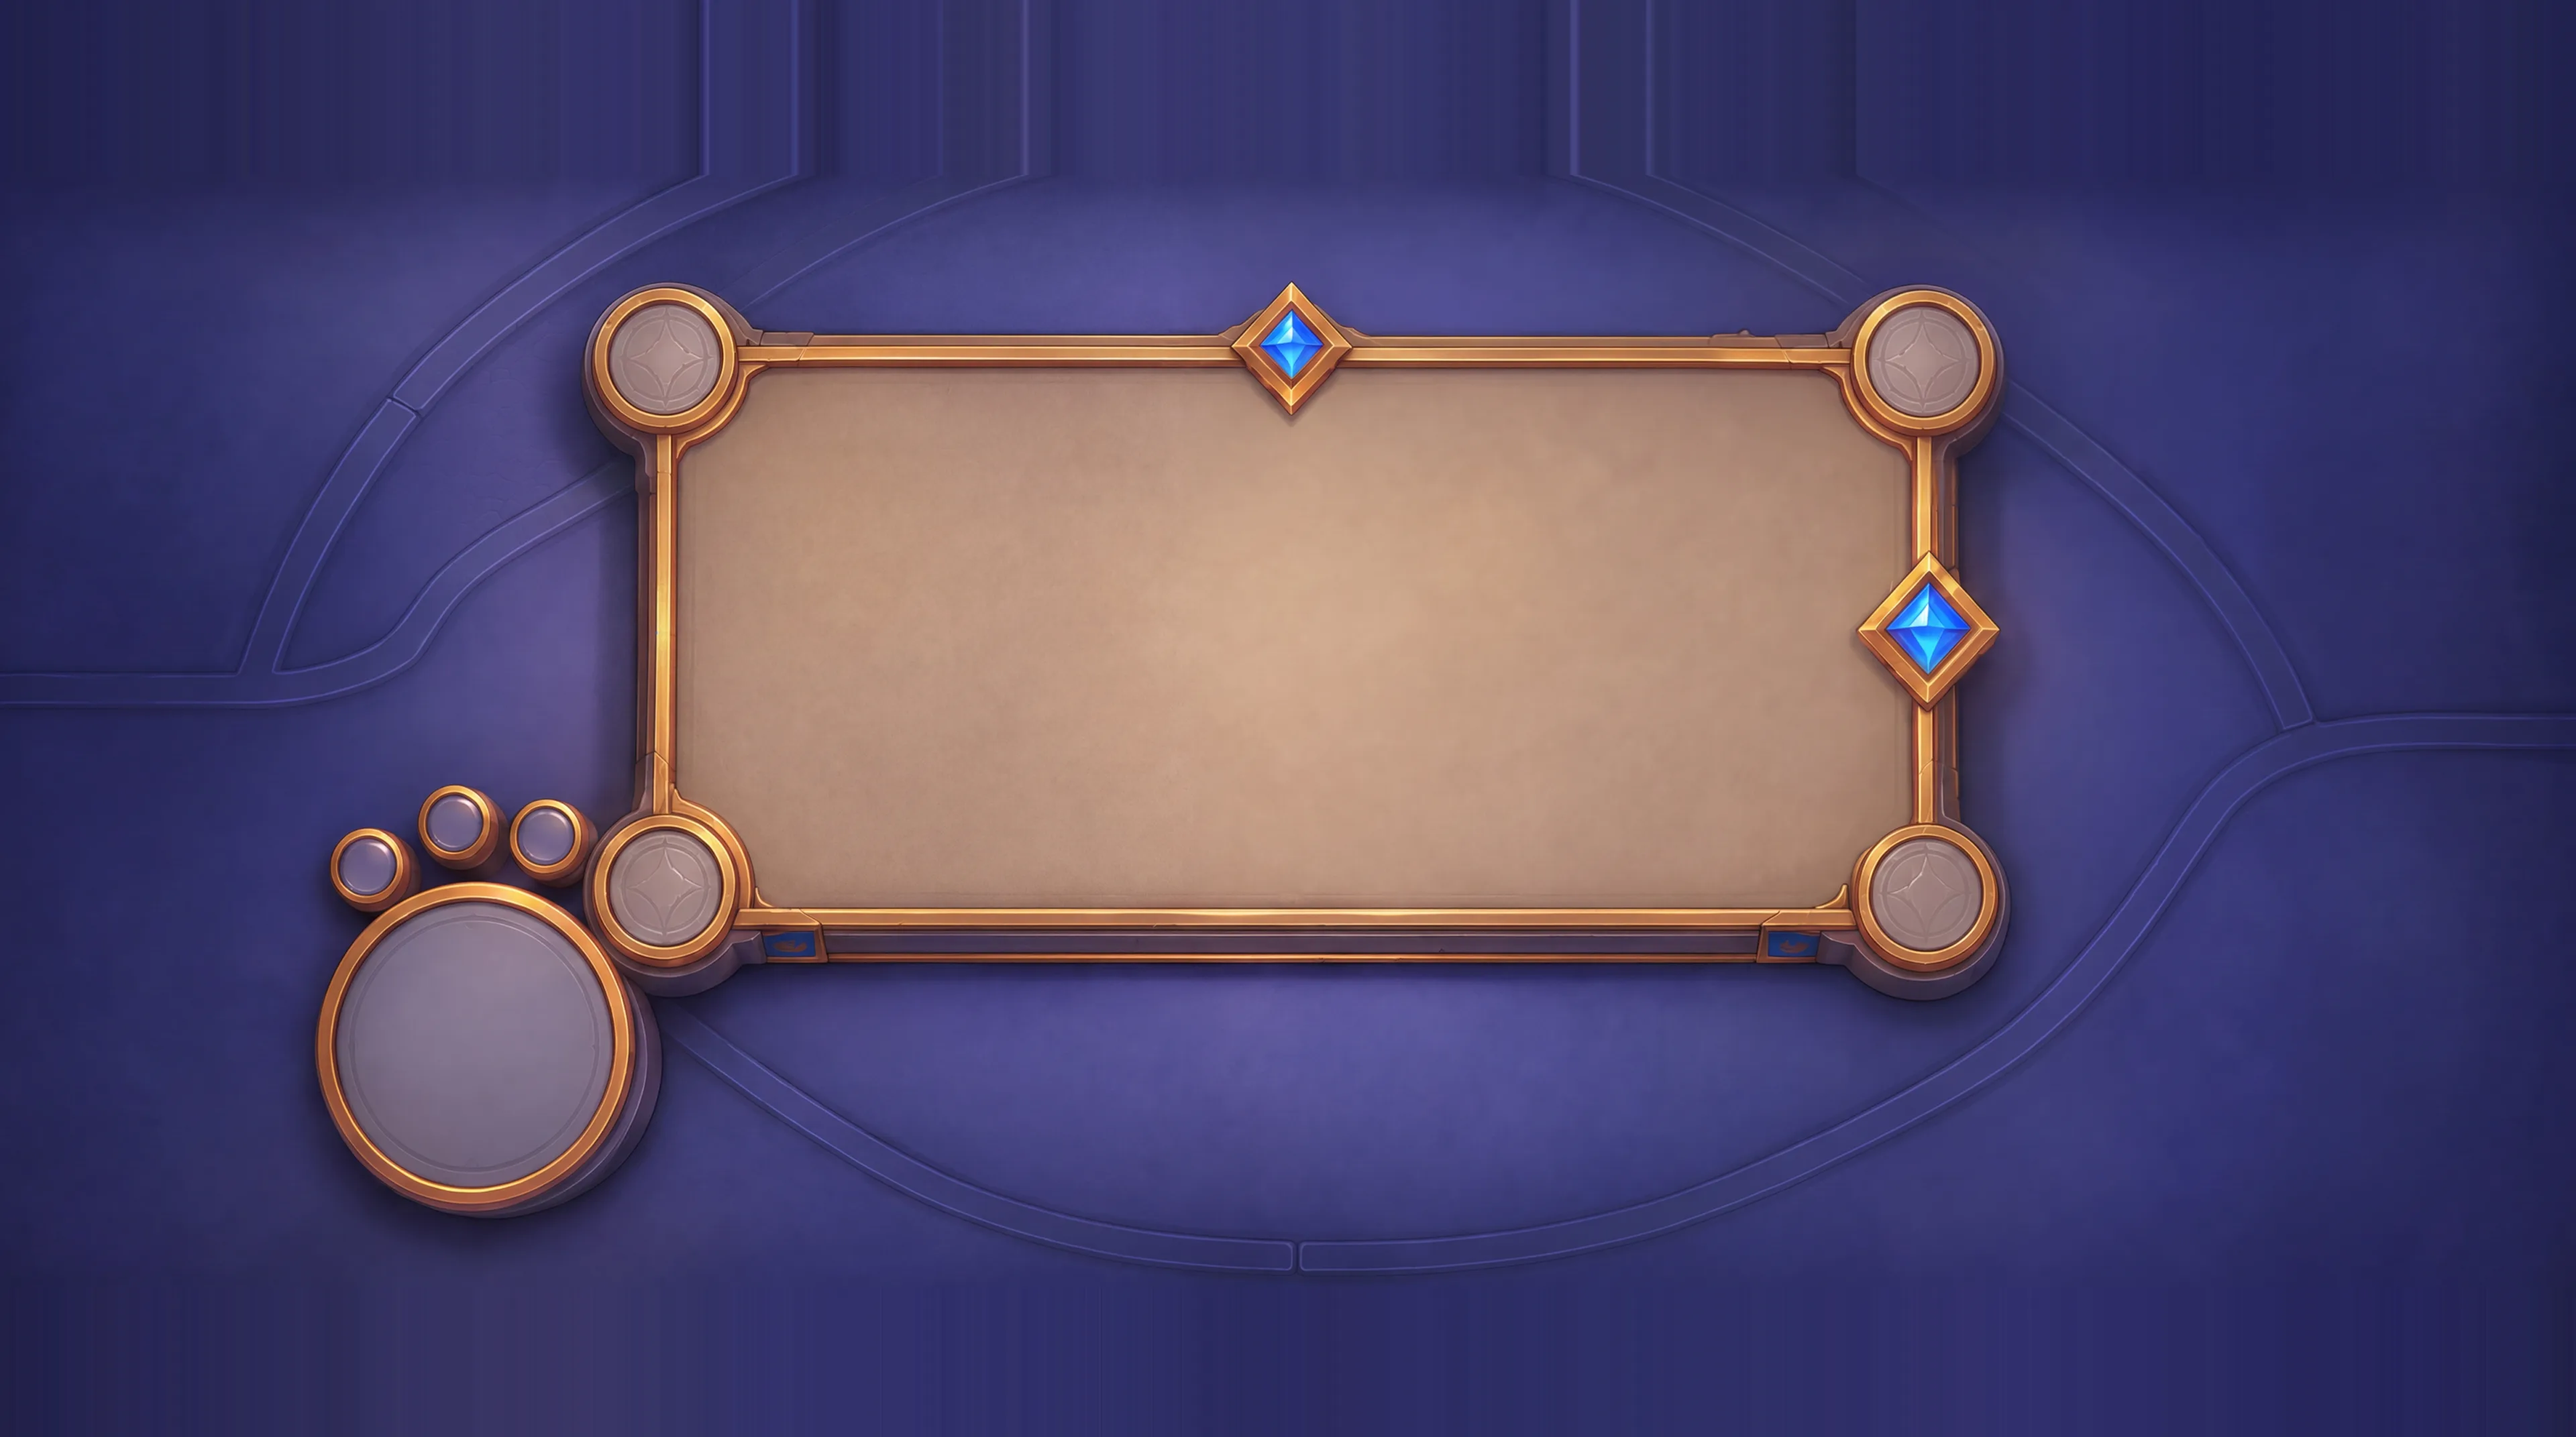
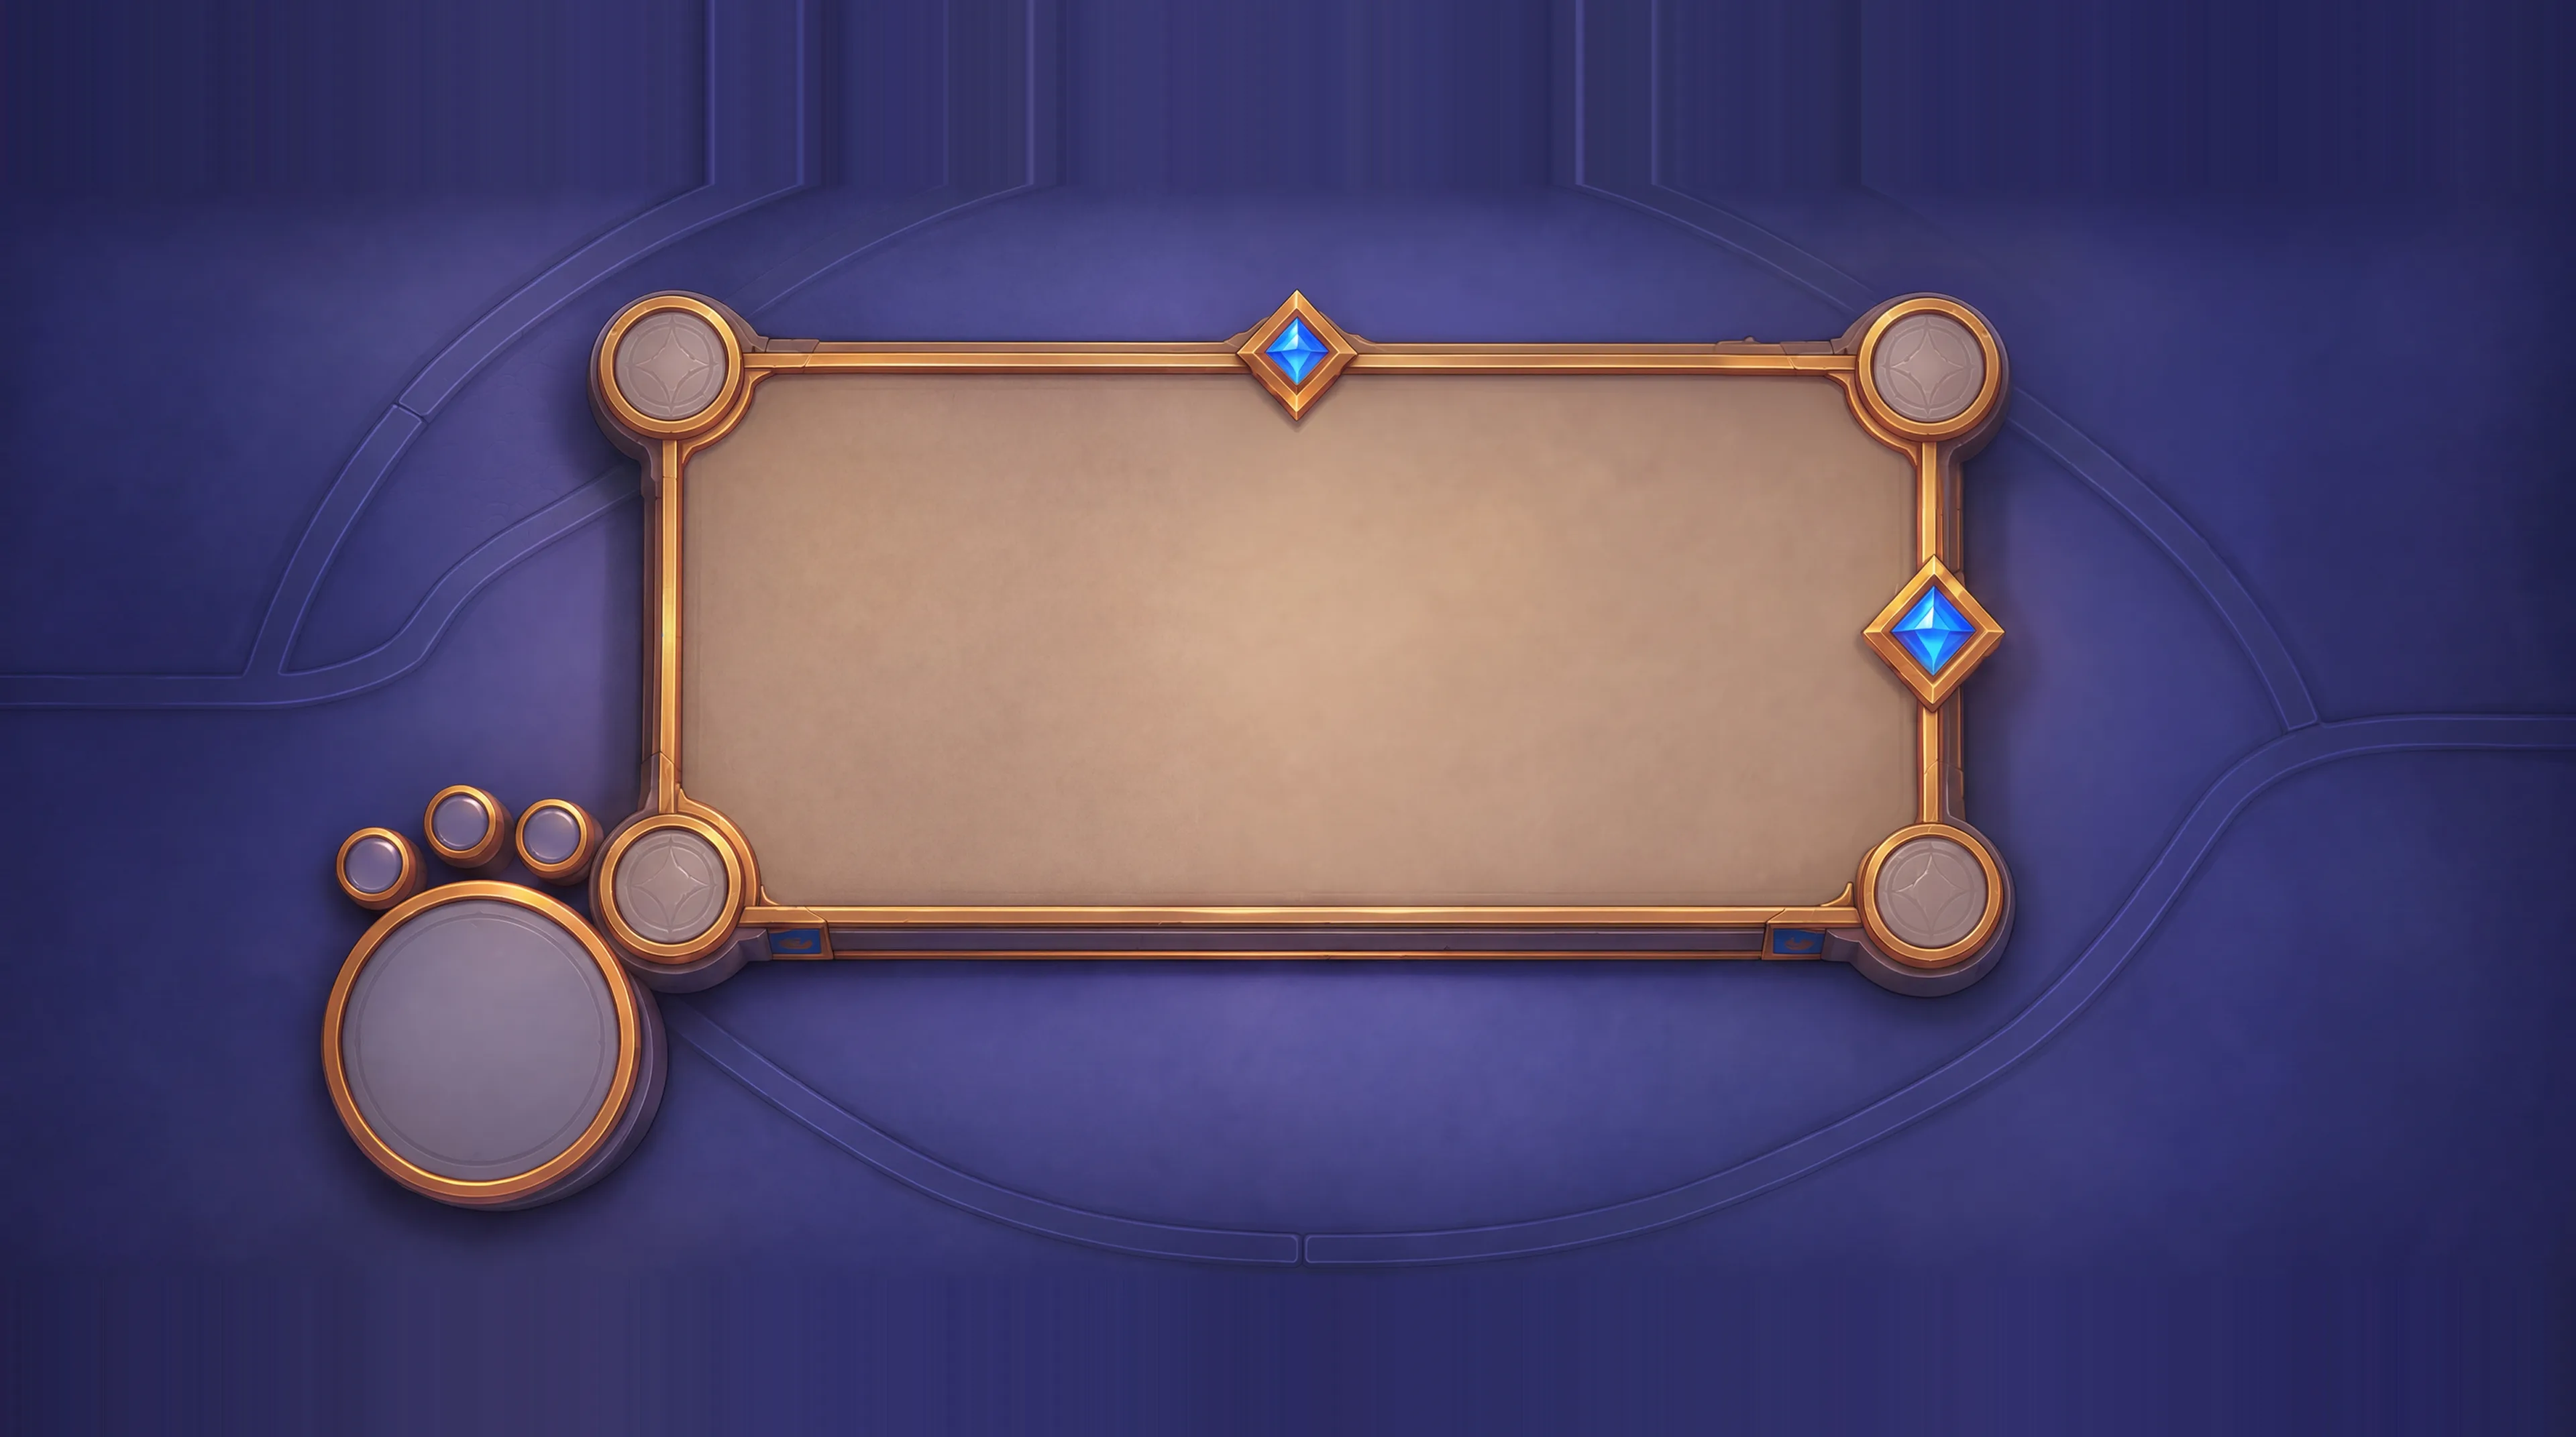
fix(art): per-axis board export — frame lands within 1px of the pre-swap board
The uniform-scale registration split a ~2% vertical proportion difference
between the two renders across all four frame edges, sitting the whole frame
~17px high and ~7px left of where the UI is tuned (owner report). Per-axis
scale + offset solved from the frame's outer gold edges, iterated against a
scanline measurement to L-1/R+1/T+1/B+1 px residuals.

diff --git a/packages/tools/src/board-export.ts b/packages/tools/src/board-export.ts
@@ -2,13 +2,15 @@
  * Board art export — maps the 8192×3542 Aug-25 board masters onto the SHIPPED board's framing.
  *
  * The game's UI (buttons, zones, charge glyph) is tuned against the frame position of the original
- * `augustfullboard.webp` (3840×2143, exported 2026-08-17 from the older 5504×3072 master). The Aug-25
- * masters are the same design rendered at a tighter crop, so a fixed transform — found by image
- * registration (mean-abs-diff grid search of uniform scale + offset against the shipped webp, verified
- * by a 50/50 pixel blend showing a single crisp frame) — places their painted frame on exactly the
- * same canvas pixels. The masters carry less purple surround vertically; the shortfall is filled by
- * edge-row replication (`extendWith: 'copy'`), which the board's 1.25× overscan keeps almost entirely
- * off-screen.
+ * `augustfullboard.webp` (3840×2143, exported 2026-08-17 from the older 5504×3072 master), so the
+ * masters must land their painted frame on exactly those canvas pixels. The transform is PER-AXIS:
+ * the two renders' frame proportions differ ~2% vertically (the first, uniform-scale registration
+ * split that error across all four edges — the owner saw the whole frame sit ~17 px high and ~7 px
+ * left, 2026-08-27). The per-axis scale + offset below were solved directly from the frame's outer
+ * gold edges in both images (old L978 R2929 T447 B1428 ↔ master L2064 R6234 T362 B2501), landing
+ * every edge within ~1 px; the ~2% anisotropy is invisible on the ornaments. The masters carry less
+ * purple surround than the canvas needs; the shortfall is filled by edge replication
+ * (`extendWith: 'copy'`), which the board's 1.25× overscan keeps almost entirely off-screen.
  *
  * Run: `npm run board:export` (masters live in the owner's `Desktop/Reference Art`; pass
  * `--src <dir>` if they move). Re-run only when a master is re-exported; commit the webps it writes.
@@ -18,10 +20,12 @@ import sharp from 'sharp';
 
 const CANVAS_W = 3840;
 const CANVAS_H = 2143;
-// Registered transform (2026-08-27): uniform scale, no horizontal shift, +260 px vertical placement.
-const SCALE = 0.469;
-const LEFT_CROP = 0;
-const TOP_PAD = 260;
+// Per-axis transform (2026-08-27, second pass): exportX = masterX·SCALE_X + LEFT_PAD,
+// exportY = masterY·SCALE_Y + TOP_PAD. Solved from the frame-edge correspondences in the header.
+const SCALE_X = 0.468763;
+const SCALE_Y = 0.461533;
+const LEFT_PAD = 9;
+const TOP_PAD = 274;
 const QUALITY = 82;
 
 const srcFlag = process.argv.indexOf('--src');
@@ -39,13 +43,18 @@ async function exportBoard(master: string, out: string): Promise<void> {
   if (meta.width !== 8192 || meta.height !== 3542) {
     throw new Error(`${master}: expected 8192x3542, got ${meta.width}x${meta.height} — re-derive the transform before exporting.`);
   }
-  const w = Math.round(8192 * SCALE); // 3842
-  const h = Math.round(3542 * SCALE); // 1661
+  const w = Math.round(8192 * SCALE_X); // 3832 — narrower than the canvas; LEFT_PAD + right overflow cover it
+  const h = Math.round(3542 * SCALE_Y); // 1625
   const dest = path.join(OUT_DIR, out);
-  await sharp(src)
-    .resize(w, h)
-    .extract({ left: LEFT_CROP, top: 0, width: CANVAS_W, height: h })
-    .extend({ top: TOP_PAD, bottom: CANVAS_H - TOP_PAD - h, extendWith: 'copy' })
+  // Two stages so the operation order is explicit (sharp reorders ops inside a single chain):
+  // 1) non-uniform scale, then pad to the placement offsets; 2) trim the overflow to the canvas.
+  const placed = await sharp(src)
+    .resize(w, h, { fit: 'fill' })
+    .extend({ left: LEFT_PAD, top: TOP_PAD, bottom: CANVAS_H - TOP_PAD - h, extendWith: 'copy' })
+    .png()
+    .toBuffer();
+  await sharp(placed)
+    .extract({ left: 0, top: 0, width: CANVAS_W, height: CANVAS_H })
     .webp({ quality: QUALITY })
     .toFile(dest);
   const outMeta = await sharp(dest).metadata();
